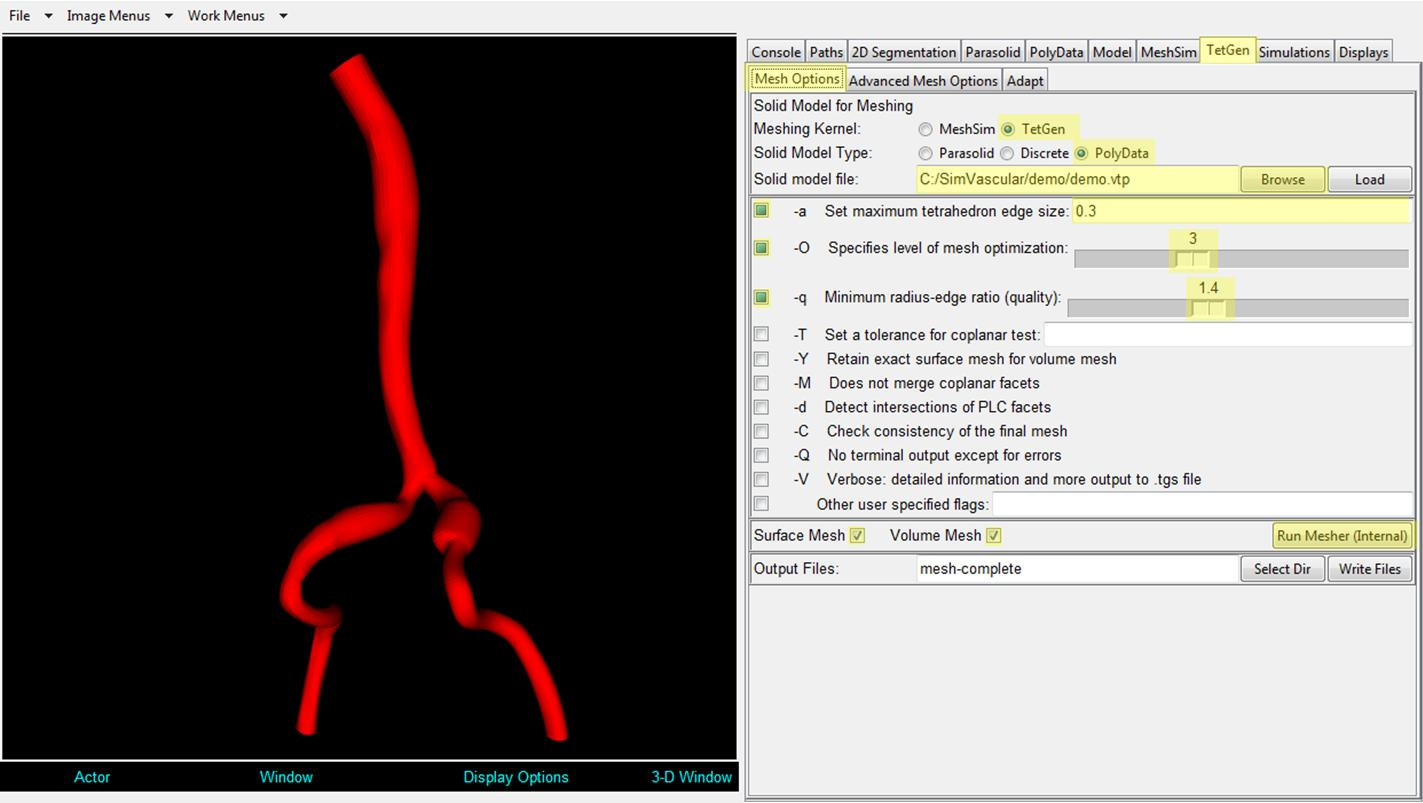
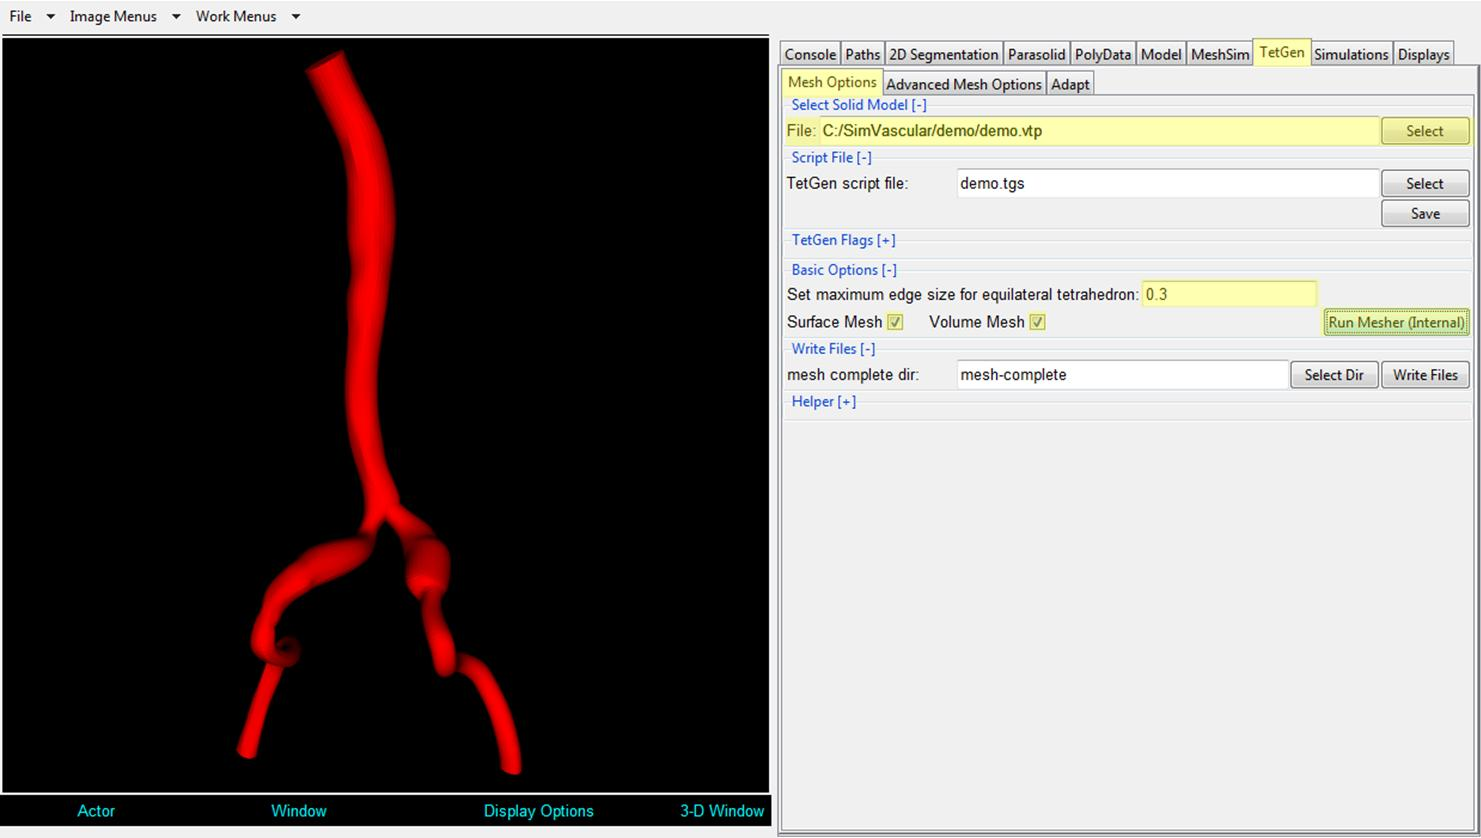
minor revision

diff --git a/source/documentation/userguide/_gettingstarted.md b/source/documentation/userguide/_gettingstarted.md
@@ -27,7 +27,7 @@ Once **SimVascular** has loaded, you will see the following main window:
   <figcaption class="svCaption" ></figcaption>
 </figure>
 
-**BOX A | Menu Bar:** The menu bar that is enclosed by box “A” (top left corner) includes some file options. These functions will be used to load/save files such as paths and groups that you have created in SimVascular. It also provides view control and you can show/hide tabs in BOX B and BOX D by toggling on/off in the Image Menus and Work Menus. 
+**BOX A | Menu Bar:** The menu bar that is enclosed by box “A” (top left corner) includes some file options. These functions will be used to load/save files such as paths and groups that you have created in **SimVascular**. It also provides view control and you can show/hide tabs in BOX B and BOX D by toggling on/off in the Image Menus and Work Menus. 
 
 <figure>
   <img class="svImg svImgMd"  src="documentation/userguide/imgs/getting_started/3_5.jpg"> 
@@ -38,7 +38,7 @@ Once **SimVascular** has loaded, you will see the following main window:
 
 **BOX C | Display Windows:** The area that is enclosed by box “C” (left half) houses the display windows. The top display window (the largest window) is the 3D display. This is where operations, such as rotating medical imaging data and creating geometric models in three-dimensional space, will be performed. The smaller, bottom two windows are 2D windows that will be useful for 2D operations such as image segmentation.
 
-**BOX D | Functional Toolbox:** The area that is enclosed by box “D” (bottom right corner) includes the main functional components of SimVascular. The tabs that are housed within this pane will allow you to build a solid, 3D model from medical imaging data, mesh that solid model into a 3D volumetric finite element mesh, apply boundary conditions to your finite element mesh, and create the files that are needed to initialize your flow simulation. It will also help you post-process the files that you generate in your flow simulation.
+**BOX D | Functional Toolbox:** The area that is enclosed by box “D” (bottom right corner) includes the main functional components of **SimVascular**. The tabs that are housed within this pane will allow you to build a solid, 3D model from medical imaging data, mesh that solid model into a 3D volumetric finite element mesh, apply boundary conditions to your finite element mesh, and create the files that are needed to initialize your flow simulation. It will also help you post-process the files that you generate in your flow simulation.
 
 <font color="red">**HELPFUL HINT:** </font>  The red arrows indicate panes within the window that can be resized. Just simply click and drag on the pane borders to resize each pane. For your convenience, you can enlarge or hide some panes.
 

diff --git a/source/documentation/userguide/_polydata.md b/source/documentation/userguide/_polydata.md
@@ -1,6 +1,6 @@
 ###Creating a Model (with PolyData)
 
-With the two groups of segmentation, we are now able to create a model for the aorta with two branch vessels.
+With the two groups of segmentation, we are now able to create a model for the aorta with two branch vessels using PolyData.
 
 	Tab: PolyData → Boolean
 	Click the button “Select Ordered Groups” 
@@ -22,7 +22,7 @@ A model file *demo.vtp* is created in the projector folder.
 	Tab: PolyData → Boundaries
 	File Input/Output → Read Model 
 	Choose the model file demo.vtp
-	Click the button “”Extract Boundaries”
+	Click the button “Extract Boundaries”
 
 <figure>
   <img class="svImg svImgXl" src="documentation/userguide/imgs/modeling/polydata2.jpg"> 
@@ -39,7 +39,7 @@ All the faces of the model are listed under Model Faces.
 	Choose the model file demo.vtp
 	Go back to tab PolyData → Boundaries
 
-Now we need to give them more meaningful names. Go to the tab Model. All the faces of the model are listed under “Face Ids”. We can select a face from the list and change color to make sure where the face is located. For the inlet and outlets, we change the names as: *inflow\_aorta*, *outflow\_aorta*, *outflow\_right\_iliac* and *all\_wall*.
+Now we need to give them more meaningful names. Go to the tab Model. All the faces of the model are listed under “Face Ids”. You can move the cursor to a face of interest in the 3D display window and hit “p” in the keyboard, and the face will be highlighted in yellow and the corresponding face id/name is highlighted in the list under "Face Ids". We can also select a face from the list and change color to make sure where the face is located. For the inlet and outlets, we change the names as: *inflow_aorta*, *outflow\_aorta* and *outflow\_right\_iliac*.
 
 	Tab: Model
 	Select the inlet face in the list and change color to green

diff --git a/source/documentation/userguide/_parasolid.md b/source/documentation/userguide/_parasolid.md
@@ -1,6 +1,6 @@
 ###Creating a Model (with Parasolid)
 
-With the two groups of segmentation, we are now able to create a model for the aorta with two branch vessels.
+With the two groups of segmentation, we are now able to create a model for the aorta with two branch vessels using Parasolid.
 
 	Tab: 2D Segmentation
 	Select the groups aorta and right_iliac in the group tree view
@@ -29,7 +29,7 @@ Now a 3D model is shown in the 3D Display Window. Here we only consider two bran
   <figcaption class="svCaption" ></figcaption>
 </figure>
 
-All the faces of the model are listed under “Face Ids”. We can select a face from the list and change color to make sure where the face is located. For the inlet and outlets, we change the names as: *inflow_aorta*, *outflow\_aorta* and *outflow\_right\_iliac*.
+All the faces of the model are listed under “Face Ids”. You can move the cursor to a face of interest in the 3D display window and hit “p” in the keyboard, and the face will be highlighted in yellow and the corresponding face id/name is highlighted in the list under "Face Ids". We can also select a face from the list and change color to make sure where the face is located. For the inlet and outlets, we change the names as: *inflow_aorta*, *outflow\_aorta* and *outflow\_right\_iliac*.
 
 	Tab: Model
 	Select the inlet face in the list and change color to green

diff --git a/source/documentation/userguide/_path.md b/source/documentation/userguide/_path.md
@@ -39,7 +39,7 @@ Continue to move down the aorta inferiorly (from “S” to “I”) in incremen
 
 <font color="red">**HELPFUL HINT:** </font>  To delete a point in the path, select the one you want to remove in the path treeview, then click Additional Options → Delete currently selected point. 
 
-Build your path down as far as possible (you should be able to get to around I/S slider position 10 before things get a harder to see. To visualize the current path:
+Build your path down as far as possible (you should be able to get to around I/S slider position 10 before things get harder to see. To visualize the current path:
 
 	Tab: Paths → Manual
 	Toggle on: Display Options → Show Points, Show Spline

diff --git a/source/documentation/userguide/_segmentation.md b/source/documentation/userguide/_segmentation.md
@@ -52,7 +52,7 @@ Continue to move along the path in increments of about 5-10 using the “Current
 Values between 6 and 10 for fourier smoothing are appropriate for this section of the aorta.
 If a segmentation is abnormal because the probe plane is at the vessel bifurcation region, just skip this segmentation and move down the path to get a better segmentation.
 
-To speed up modeling, simvascular can perform batch segmentations.  To perform batch segmentation:
+To speed up modeling, **SimVascular** can perform batch segmentations.  To perform batch segmentation:
 
 	Enter "155-285 by 10" in the batch segmentation text box.
 	Select "Add to Group" and "Smooth" check boxes.

diff --git a/source/documentation/userguide/_meshsim.md b/source/documentation/userguide/_meshsim.md
@@ -5,8 +5,13 @@
 	File: demo.xmt_txt
 	Global Max Edge Size: 0.3  (absolute)
 	Click “Run Mesher”
-	“Creating mesh can take a long time. Continue anyway?”: Yes
-	“Use currently selected meshing options?...” :“Yes”
+	“Creating mesh can take a long time. Continue anyway?”: "Yes"
+	“Use currently selected meshing options?...”: "Yes"
+
+<figure>
+  <img class="svImg svImgXl"  src="documentation/userguide/imgs/meshing/meshsim1.jpg"> 
+  <figcaption class="svCaption" ></figcaption>
+</figure>
 
 Now the mesh is created for the model as below.
 

diff --git a/source/documentation/userguide/_tetgen.md b/source/documentation/userguide/_tetgen.md
@@ -1,11 +1,8 @@
 ### Meshing Using TetGen
 
-	Tab: TetGen → MeshOptions
-	Meshing Kernel: TetGen
+	Tab: TetGen → Mesh Options
 	File: <project folder>/demo.vtp
-	Toggle on: –a  Set maximum tetrahedron edge size: 0.3
-	Toggle on: -O  Specifies level of mesh optimization: 3
-	Toggle on: -q  Minimum radius-edge ratio (quality): 1.4
+	Set maximum edge size for equilateral tetrahedron: 0.3
 	Toggle on: Surface Mesh
 	Toggle on: Volume Mesh
 	Click “Run Mesher (Internal)”

diff --git a/source/documentation/userguide/_presolver.md b/source/documentation/userguide/_presolver.md
@@ -41,7 +41,7 @@ Open a text editor and manually write the solver input file ***solver.inp*** in 
 	Viscosity: 0.04 
 	Density: 1.06
 	
-	Number of Timesteps between Restarts:50   #output every 50 timesteps
+	Number of Timesteps between Restarts: 50   #output every 50 timesteps
 	Print ybar: True   # track the error of the numerical solution through the simulation
 	
 	Time Varying Boundary Conditions From File: True # Needing bct.dat 
